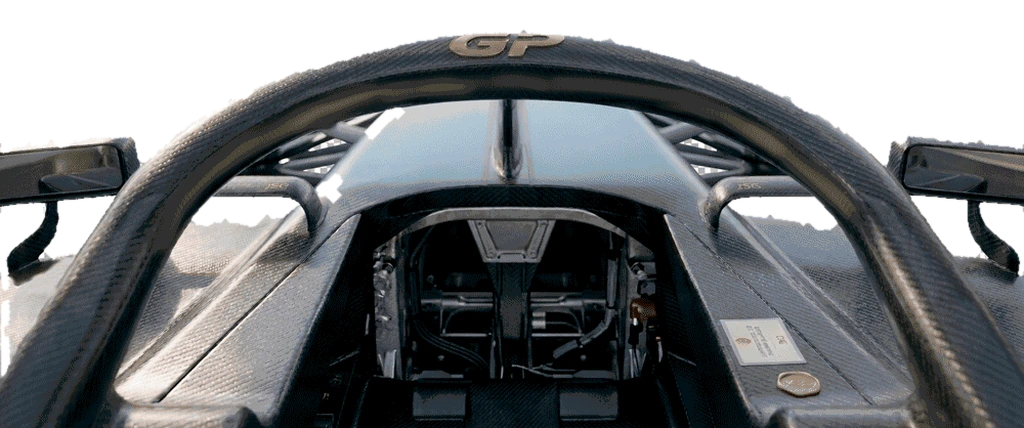
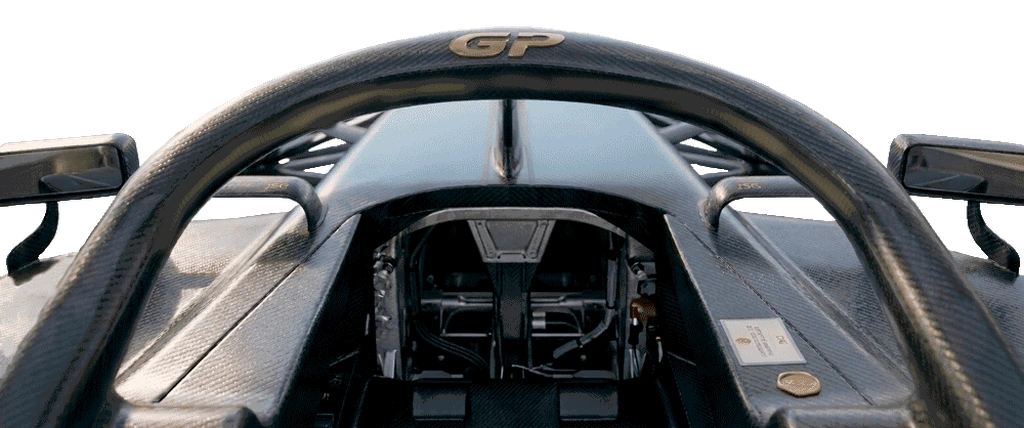
Build 841: cockpit_car.webp con la imagen del usuario (transparencia real)

diff --git a/sw.js b/sw.js
@@ -1,5 +1,5 @@
 // Service worker: actualiza primero por red y guarda copia para offline (PWA)
-const CACHE = 'scgp-v405';
+const CACHE = 'scgp-v406';
 const ASSETS = [
   './', 'index.html', 'circuitos.js', 'fondo.jpg', 'fondo2.jpg', 'portada.jpg',
   'fondo_pw.png', 'fondo_card.jpg', 'fondo_manual.jpg', 'f1.png', 'f1sel.png', 'f1_r26.png', 'f1_scarlet.png', 'f1_verde.png', 'f1_amarillo.png', 'f1_negro.png', 'f1_rosa.png', 'f1_naranja.png', 'volante.webp', 'volante_giro.webp', 'volante_fijo.webp', 'cockpit_car.webp', 'stick_dpad.webp', 'fpv_tire.webp', 'logo_gp.webp', 'trofeo.webp', 'logo_shape.js', 'RADIO.mp3', 'three.min.js', 'postprocessing.min.js', 'peerjs.min.js',

diff --git a/index.html b/index.html
@@ -10686,7 +10686,7 @@ let pudT = 0, ripT = 0, pudSld = 0;                    // relojes de charcos, on
 const _els = {};
 const el = id => _els[id] || (_els[id] = document.getElementById(id));
 // Versión del build: +1 por cada cambio entregado
-const BUILD_NO = 840;
+const BUILD_NO = 841;
 el('verNum').textContent = 'Ver.1-' + String(BUILD_NO).padStart(4, '0');
 // Icono SVG premium: <svg class="ic"><use href="#i-..."/></svg>
 const ic = (n, cls) => `<svg class="ic${cls ? ' ' + cls : ''}" viewBox="0 0 24 24"><use href="#i-${n}"/></svg>`;
